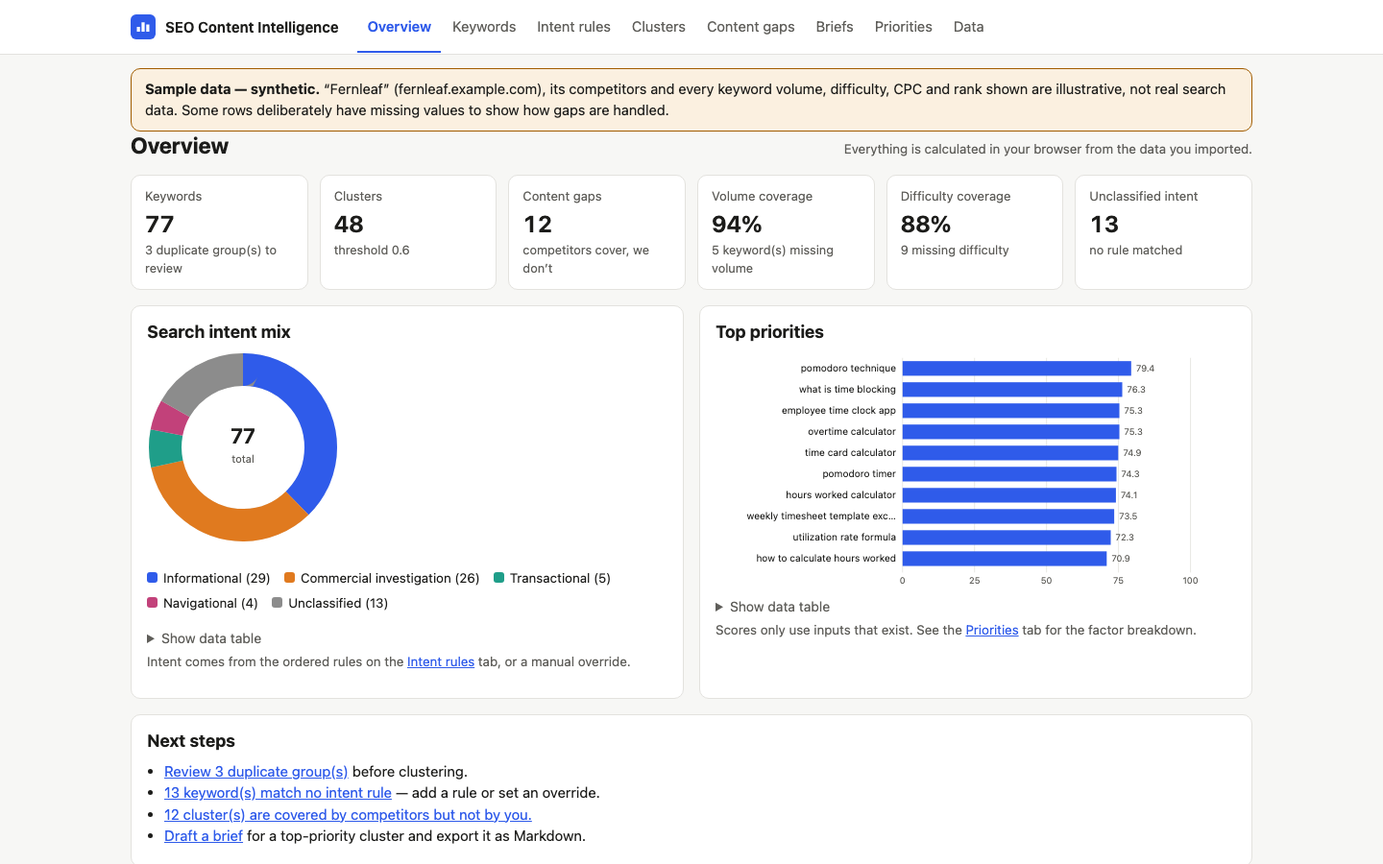
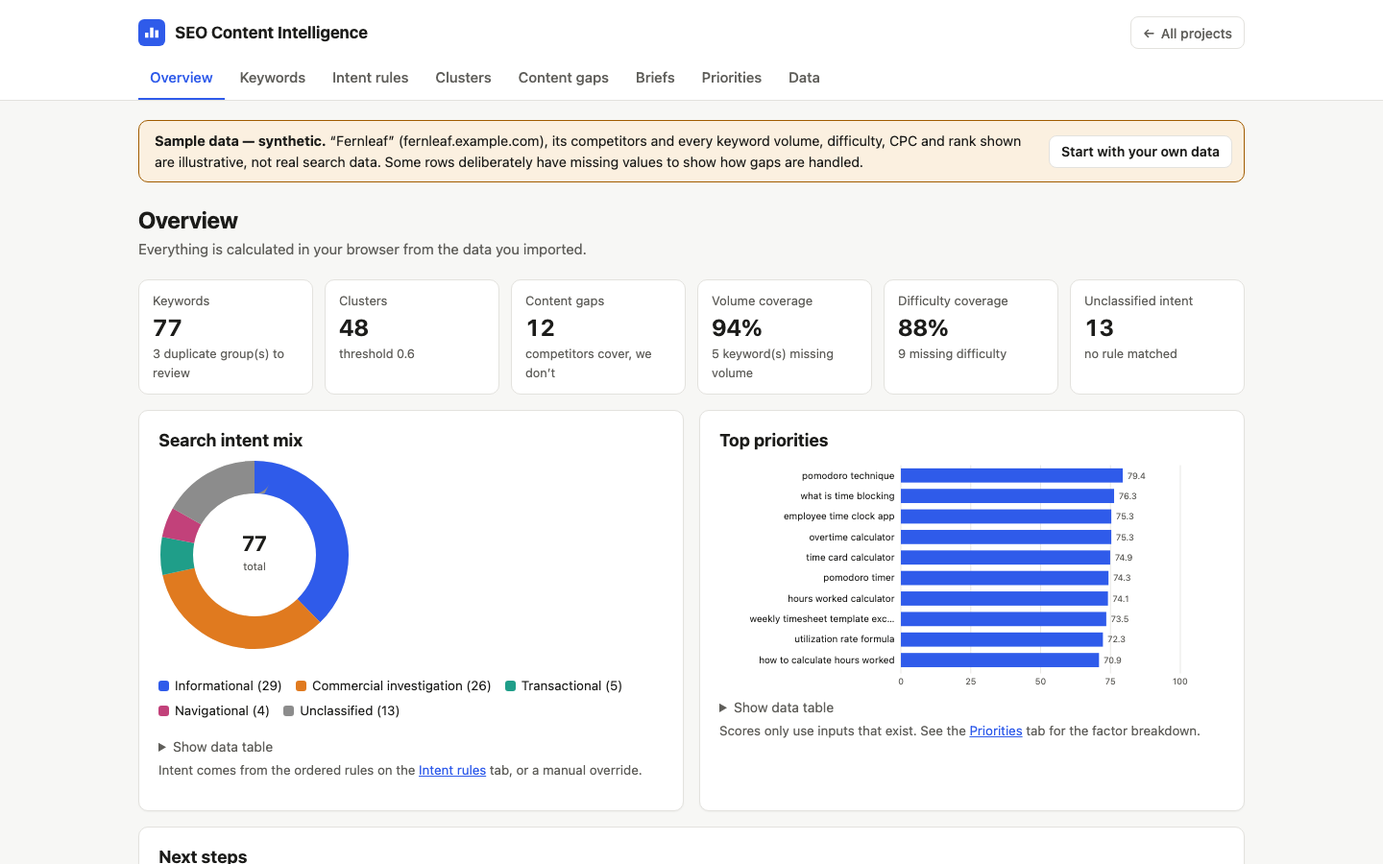
Consistent header and footer, sticky footer, sample loaded on first visit

Changed region(s): [[0.0938, 0.0, 0.9062, 1.0], [0.5312, 0.8089, 0.875, 0.8711], [0.25, 0.3422, 0.2812, 0.4356]]

diff --git a/src/app.js b/src/app.js
@@ -16,6 +16,9 @@ const INTENT_COLORS = { informational: PALETTE[0], commercial: PALETTE[1], trans
 const FACTOR_COLORS = { volume: PALETTE[0], difficulty: PALETTE[2], intent: PALETTE[1], gap: PALETTE[3], rank: PALETTE[4] };
 
 let storageOk = true;
+let hadSavedState = false;
+/** Set when the visitor chose to start empty (or reset), so the sample is not auto-loaded again. */
+const START_EMPTY_KEY = STORAGE_KEY + '.startEmpty';
 let state = loadState();
 let cache = null;
 const ui = {
@@ -35,6 +38,7 @@ function loadState() {
   let raw = null;
   try { raw = localStorage.getItem(STORAGE_KEY); } catch { storageOk = false; return defaultState(); }
   if (!raw) return defaultState();
+  hadSavedState = true;
   try {
     const v = validateState(JSON.parse(raw));
     if (v.ok) return v.state;
@@ -43,6 +47,12 @@ function loadState() {
     queueMicrotask(() => setStatus('Saved data was corrupted and was ignored. Load sample data or import a CSV to continue.', 'bad'));
   }
   return defaultState();
+}
+function startEmptyChosen() {
+  try { return localStorage.getItem(START_EMPTY_KEY) === '1'; } catch { return false; }
+}
+function rememberStartEmpty() {
+  try { localStorage.setItem(START_EMPTY_KEY, '1'); } catch { /* storage unavailable */ }
 }
 function save() {
   try { localStorage.setItem(STORAGE_KEY, JSON.stringify(state)); }
@@ -94,7 +104,7 @@ function render() {
     if (a.dataset.tab === ui.tab) a.setAttribute('aria-current', 'page'); else a.removeAttribute('aria-current');
   });
   document.getElementById('banner').innerHTML = state.isSample
-    ? `<div class="banner"><strong>Sample data — synthetic.</strong> “Fernleaf” (fernleaf.example.com), its competitors and every keyword volume, difficulty, CPC and rank shown are illustrative, not real search data. Some rows deliberately have missing values to show how gaps are handled.</div>`
+    ? `<div class="sample-banner" role="note"><p class="sample-banner__text"><strong>Sample data — synthetic.</strong> “Fernleaf” (fernleaf.example.com), its competitors and every keyword volume, difficulty, CPC and rank shown are illustrative, not real search data. Some rows deliberately have missing values to show how gaps are handled.</p><button type="button" class="sample-banner__action" data-action="start-own">Start with your own data</button></div>`
     : '';
   const main = document.getElementById('main');
   let html;
@@ -121,7 +131,7 @@ function renderOverview() {
   const top = a.scores.filter(x => x.score !== null).slice(0, 10);
   const topRows = top.map(x => ({ label: a.summaries.get(x.id).seed, segments: [{ key: 'score', value: x.score }] }));
   return `
-  <div class="page-head"><h1>Overview</h1><span class="muted small">Everything is calculated in your browser from the data you imported.</span></div>
+  <div class="page-head"><div><h1>Overview</h1><p>Everything is calculated in your browser from the data you imported.</p></div></div>
   <div class="kpis">
     ${kpi('Keywords', n0(s.keywords), `${a.duplicates.length} duplicate group(s) to review`)}
     ${kpi('Clusters', n0(a.clusters.length), `threshold ${a.threshold}`)}
@@ -164,7 +174,7 @@ function fallbackTable(headers, rows) {
 // ---------- Keywords ----------
 function renderKeywords() {
   return `
-  <div class="page-head"><h1>Keywords</h1><span class="muted small">Import, normalise, de-duplicate and edit keyword research.</span></div>
+  <div class="page-head"><div><h1>Keywords</h1><p>Import, normalise, de-duplicate and edit keyword research.</p></div></div>
   ${renderImportCard()}
   ${state.keywords.length ? renderDuplicates() + renderKeywordTable() : emptyState('No keywords yet', 'Choose a CSV above, paste CSV text, or load the synthetic sample.', sampleBtn)}`;
 }
@@ -302,7 +312,7 @@ function keywordTableHtml() {
 function renderRules() {
   const a = state.keywords.length ? A() : null;
   return `
-  <div class="page-head"><h1>Intent rules</h1><span class="muted small">Transparent, ordered, editable.</span></div>
+  <div class="page-head"><div><h1>Intent rules</h1><p>Transparent, ordered, editable.</p></div></div>
   <p class="lead">Rules are checked from top to bottom against the <em>normalised</em> keyword. The first enabled rule that matches decides the intent; if none matches, the keyword is <strong>Unclassified</strong>. Terms are comma-separated and match whole words or phrases. A manual override on the Keywords tab always wins.</p>
   <section class="card">
     <h2>Test a keyword</h2>
@@ -347,7 +357,7 @@ function renderClusters() {
   if (!state.keywords.length) return `<div class="page-head"><h1>Clusters</h1></div>` + emptyState('Nothing to cluster yet', 'Import keywords or load the sample data first.', sampleBtn + toKeywordsBtn);
   const t = state.settings.clusterThreshold;
   return `
-  <div class="page-head"><h1>Clusters</h1><span class="muted small">${A().clusters.length} cluster(s) from ${state.keywords.length} keyword(s)</span></div>
+  <div class="page-head"><div><h1>Clusters</h1><p>${A().clusters.length} cluster(s) from ${state.keywords.length} keyword(s)</p></div></div>
   <section class="card">
     <h2>How keywords are grouped</h2>
     <p class="small">Each keyword is reduced to <strong>core terms</strong> (normalised words${state.settings.foldPlurals ? ', plurals folded' : ''}, minus stopwords and intent modifiers such as “best”, “how”, “free”). Keywords are processed by volume (highest first; missing volume last, then A→Z). Each joins the existing cluster whose <strong>seed</strong> has the highest Jaccard similarity (shared terms ÷ all distinct terms) if it reaches the threshold; otherwise it starts a new cluster. Same data + same settings = same clusters.</p>
@@ -403,7 +413,7 @@ function renderGaps() {
     ${simpleImportBlock('competitors', 'Competitor coverage CSV', COMPETITOR_FIELDS, state.competitors.length, 'sample-data/competitors-template.csv', 'sample-data/competitors-sample.csv')}
     ${simpleImportBlock('ourPages', 'Our pages CSV', OUR_PAGE_FIELDS, state.ourPages.length, 'sample-data/our-pages-template.csv', 'sample-data/our-pages-sample.csv')}
   </div>`;
-  const head = `<div class="page-head"><h1>Content gaps</h1><span class="muted small">Topics competitors cover that you don’t.</span></div>`;
+  const head = `<div class="page-head"><div><h1>Content gaps</h1><p>Topics competitors cover that you don’t.</p></div></div>`;
   if (!state.keywords.length) return head + imports + emptyState('Import keywords first', 'Gaps are measured against your keyword clusters, so import keyword research (or the sample) first.', sampleBtn + toKeywordsBtn);
   const a = A();
   if (!a.gaps.hasCompetitorData) return head + imports + emptyState('No competitor data yet', 'Import a CSV listing competitor domains, URLs and the topic or keyword each page covers. Gap status is shown as “missing input” until then — nothing is guessed.', '<a class="btn" href="sample-data/competitors-template.csv" download>Download competitor template</a>');
@@ -448,7 +458,7 @@ function renderGaps() {
 
 // ---------- Briefs ----------
 function renderBriefs() {
-  const head = `<div class="page-head"><h1>Content briefs</h1><span class="muted small">Generated from a cluster, then fully editable. Saved in this browser.</span></div>`;
+  const head = `<div class="page-head"><div><h1>Content briefs</h1><p>Generated from a cluster, then fully editable. Saved in this browser.</p></div></div>`;
   if (!state.keywords.length && !Object.keys(state.briefs).length) return head + emptyState('No clusters yet', 'Import keywords or load the sample data, then generate a brief from any cluster.', sampleBtn + toKeywordsBtn);
   const a = state.keywords.length ? A() : null;
   const options = a ? a.scores.map((s, i) => `<option value="${esc(s.id)}" ${ui.briefCluster === s.id ? 'selected' : ''}>#${i + 1} · ${esc(a.summaries.get(s.id).seed)} (score ${s.score ?? 'n/a'})${state.briefs[s.id] ? ' ✓ saved' : ''}</option>`).join('') : '';
@@ -494,7 +504,7 @@ function renderBriefs() {
 
 // ---------- Priorities ----------
 function renderPriorities() {
-  const head = `<div class="page-head"><h1>Priorities</h1><span class="muted small">Explainable weighted score per cluster, from available inputs only.</span></div>`;
+  const head = `<div class="page-head"><div><h1>Priorities</h1><p>Explainable weighted score per cluster, from available inputs only.</p></div></div>`;
   if (!state.keywords.length) return head + emptyState('Nothing to prioritise yet', 'Import keywords or load the sample data first.', sampleBtn + toKeywordsBtn);
   const a = A();
   const w = state.settings.weights;
@@ -553,7 +563,7 @@ function renderPriorities() {
 
 // ---------- Data ----------
 function renderData() {
-  return `<div class="page-head"><h1>Data</h1><span class="muted small">Everything is stored only in this browser (localStorage).</span></div>
+  return `<div class="page-head"><div><h1>Data</h1><p>Everything is stored only in this browser (localStorage).</p></div></div>
   ${storageOk ? '' : '<div class="banner" style="margin-bottom:16px">Browser storage is unavailable (private mode or blocked). Your work will be lost on reload — use “Back up data”.</div>'}
   <div class="grid two">
     <section class="card"><h2>Backup and restore</h2>
@@ -598,7 +608,7 @@ function importSimple(kind, text, fileName) {
   } catch (e) { setStatus(`${fileName}: ${e.message}`, 'bad'); }
 }
 
-async function loadSample() {
+async function loadSample(_el, quiet = false) {
   if ((state.keywords.length || state.competitors.length) && !confirm('Replace current data with the synthetic sample? Back up first if you want to keep it.')) return;
   try {
     const [kw, comp, pages] = await Promise.all(['keywords-sample.csv', 'competitors-sample.csv', 'our-pages-sample.csv']
@@ -612,9 +622,11 @@ async function loadSample() {
     s.ourPages = importSimpleRows(p.headers, p.rows, OUR_PAGE_FIELDS).items;
     state = s;
     ui.pendingImport = null; ui.importReport = null; ui.briefCluster = ''; ui.simpleReport = null;
-    commit(`Loaded synthetic sample: ${s.keywords.length} keywords, ${s.competitors.length} competitor topics, ${s.ourPages.length} pages.`);
+    commit(quiet ? '' : `Loaded synthetic sample: ${s.keywords.length} keywords, ${s.competitors.length} competitor topics, ${s.ourPages.length} pages.`);
+    return true;
   } catch (e) {
     setStatus(`Could not load sample data (${e.message}). Open the app through a local web server (see README), not as a file:// page.`, 'bad');
+    return false;
   }
 }
 
@@ -697,8 +709,15 @@ const actions = {
   'export-recs-md': () => { download('prioritised-recommendations.md', recommendationsMarkdown(state, A(), { limit: 1000 }), 'text/markdown'); setStatus('Exported recommendations Markdown.'); },
   'weights-reset': () => { state.settings.weights = { ...DEFAULT_WEIGHTS }; state.settings.intentValues = { ...DEFAULT_INTENT_VALUES }; commit('Weights and intent values reset to defaults.'); },
   backup: () => { download(`seo-content-intelligence-backup-${new Date().toISOString().slice(0, 10)}.json`, JSON.stringify(makeBackup(state), null, 2), 'application/json'); setStatus('Backup downloaded.'); },
+  'start-own': () => {
+    rememberStartEmpty();
+    state = defaultState(); ui.pendingImport = null; ui.importReport = null; ui.briefCluster = ''; ui.simpleReport = null;
+    if (ui.tab !== 'overview' && ui.tab !== 'keywords') history.replaceState(null, '', '#overview');
+    commit('Sample cleared. Import your own keyword CSV, or load the sample again.');
+  },
   reset: () => {
     if (!confirm('Delete all keywords, rules, settings, competitor data, pages and briefs from this browser? This cannot be undone.')) return;
+    rememberStartEmpty();
     state = defaultState(); ui.pendingImport = null; ui.importReport = null; ui.briefCluster = ''; ui.simpleReport = null;
     commit('All data reset.');
   }
@@ -790,4 +809,10 @@ document.addEventListener('input', e => {
 });
 window.addEventListener('hashchange', () => { setStatus(''); render(); document.getElementById('main').focus({ preventScroll: true }); window.scrollTo(0, 0); });
 
-render();
+// First visit (nothing saved, sample not declined): open the synthetic sample so the overview is populated.
+if (!hadSavedState && !startEmptyChosen()) {
+  document.getElementById('main').innerHTML = '<p class="muted">Loading the synthetic sample…</p>';
+  loadSample(null, true).then(ok => { if (!ok) render(); });
+} else {
+  render();
+}

diff --git a/src/styles.css b/src/styles.css
@@ -21,26 +21,14 @@ a { color: var(--accent); }
 h1, h2, h3 { line-height: 1.25; margin: 0 0 .5rem; }
 h1 { font-size: 1.45rem; } h2 { font-size: 1.12rem; } h3 { font-size: 1rem; }
 p { margin: .25rem 0 .75rem; }
-.wrap { max-width: 1200px; margin: 0 auto; padding: 0 16px; }
+.wrap { max-width: 1200px; margin: 0 auto; padding: 0 var(--chrome-gutter, 16px); }
 .num, td.num, .kpi .value { font-variant-numeric: tabular-nums; }
 :focus-visible { outline: 3px solid var(--accent); outline-offset: 2px; border-radius: 4px; }
 .skip-link { position: absolute; left: -999px; top: 0; background: var(--surface); padding: 8px 12px; z-index: 10; }
 .skip-link:focus { left: 8px; }
 
-/* Top bar */
-.topbar { background: var(--surface); border-bottom: 1px solid var(--border); position: sticky; top: 0; z-index: 5; }
-.topbar-inner { max-width: 1200px; margin: 0 auto; padding: 0 16px; display: flex; align-items: center; gap: 20px; min-height: 56px; }
-.brand { display: flex; align-items: center; gap: 10px; font-weight: 650; white-space: nowrap; }
-.tabs { display: flex; gap: 2px; overflow-x: auto; scrollbar-width: thin; min-width: 0; }
-.tabs a { padding: 16px 10px 14px; color: var(--muted); text-decoration: none; border-bottom: 2px solid transparent; white-space: nowrap; font-size: .93rem; }
-.tabs a:hover { color: var(--text); }
-.tabs a[aria-current="page"] { color: var(--accent); border-bottom-color: var(--accent); font-weight: 600; }
-@media (max-width: 760px) {
-  .topbar-inner { flex-direction: column; align-items: stretch; gap: 0; padding-top: 10px; }
-  .tabs a { padding: 10px 9px; }
-}
 
-/* Banner + status */
+/* In-page notes + status */
 .banner { margin-top: 14px; padding: 10px 14px; border: 1px solid var(--warn); background: var(--warn-weak); border-radius: var(--radius); font-size: .92rem; }
 .status:empty { display: none; }
 .status { margin-top: 12px; }
@@ -49,7 +37,6 @@ p { margin: .25rem 0 .75rem; }
 .status .msg.bad { border-color: var(--bad); background: var(--bad-weak); }
 .status .msg.warn { border-color: var(--warn); background: var(--warn-weak); }
 
-main { padding-top: 18px; padding-bottom: 40px; outline: none; }
 .page-head { display: flex; flex-wrap: wrap; align-items: baseline; justify-content: space-between; gap: 8px; margin-bottom: 8px; }
 .lead { color: var(--muted); max-width: 70ch; }
 
@@ -157,7 +144,119 @@ details.fallback summary { cursor: pointer; color: var(--muted); }
 .factor-cell { white-space: nowrap; }
 .factor-cell .raw { color: var(--muted); font-size: .78rem; display: block; }
 .score { font-weight: 650; }
-.footer { border-top: 1px solid var(--border); padding: 18px 0 26px; color: var(--muted); font-size: .88rem; background: var(--surface); }
 ul.plain { padding-left: 18px; margin: 4px 0; }
 .mapping-grid { display: grid; grid-template-columns: repeat(auto-fit, minmax(190px, 1fr)); gap: 10px; margin: 10px 0; }
 .mapping-grid select { width: 100%; }
+
+/* ===== Shared portfolio chrome v1 — identical in all five Dash-boop0 apps (keep in sync) ===== */
+:root { --chrome-ink: #FFFFFF; --chrome-shadow: 0 1px 2px rgba(0, 0, 0, 0.04); --chrome-gutter: 24px; }
+@media (prefers-color-scheme: dark) { :root { --chrome-ink: #141413; --chrome-shadow: none; } }
+@media (max-width: 600px) { :root { --chrome-gutter: 16px; } }
+
+/* Sticky-footer layout: footer sits at the viewport bottom or after the content, never mid-screen. */
+html { background: var(--bg); }
+body { margin: 0; min-height: 100vh; min-height: 100dvh; display: flex; flex-direction: column; background: var(--bg); }
+main.site-main {
+  flex: 1 0 auto; width: 100%; max-width: 1200px; min-width: 0; margin: 0 auto;
+  padding: 32px var(--chrome-gutter) 48px; outline: none;
+}
+body:has(.site-banner:not(:empty):not([hidden])) main.site-main { padding-top: 24px; }
+
+/* Header */
+.site-header { position: sticky; top: 0; z-index: 30; background: var(--surface); border-bottom: 1px solid var(--border); flex: none; }
+.site-header__inner { max-width: 1200px; margin: 0 auto; padding: 0 var(--chrome-gutter); }
+.site-header__top { display: flex; align-items: center; flex-wrap: wrap; gap: 8px 16px; min-height: 56px; padding-top: 12px; }
+.site-brand {
+  display: inline-flex; align-items: center; gap: 10px; min-width: 0; margin-right: auto; height: 36px;
+  color: var(--text); text-decoration: none; font-size: 1.0625rem; font-weight: 700; letter-spacing: -0.005em; line-height: 1.2;
+}
+.site-brand__icon { width: 28px; height: 28px; flex: none; display: block; }
+.site-brand__icon rect { fill: var(--accent); }
+.site-brand__icon .glyph-s { fill: none; stroke: var(--chrome-ink); stroke-linecap: round; stroke-linejoin: round; }
+.site-brand__icon .glyph-f { fill: var(--chrome-ink); }
+.site-brand__name { min-width: 0; overflow: hidden; text-overflow: ellipsis; white-space: nowrap; }
+.site-header__extra { display: flex; align-items: center; gap: 8px 12px; min-width: 0; font-size: 0.875rem; color: var(--muted); }
+.site-header__extra:empty { display: none; }
+.site-header__extra select { min-height: 36px; max-width: min(360px, 40vw); }
+.site-home {
+  display: inline-flex; align-items: center; gap: 6px; flex: none; height: 34px; padding: 0 12px;
+  border: 1px solid var(--border); border-radius: 8px; background: var(--surface);
+  color: var(--muted); font-size: 0.875rem; font-weight: 500; text-decoration: none; white-space: nowrap;
+}
+.site-home:hover { color: var(--text); border-color: var(--accent); }
+.site-tabs {
+  display: flex; gap: 4px; margin: 4px calc(-1 * var(--chrome-gutter)) 0; padding: 0 var(--chrome-gutter);
+  overflow-x: auto; overscroll-behavior-x: contain; scrollbar-width: none; -webkit-overflow-scrolling: touch;
+}
+.site-tabs::-webkit-scrollbar { display: none; }
+.site-tabs a {
+  flex: none; display: block; padding: 10px 12px 11px; border-bottom: 2px solid transparent;
+  color: var(--muted); font-size: 0.9375rem; font-weight: 500; line-height: 1.4; text-decoration: none; white-space: nowrap;
+}
+.site-tabs a:hover { color: var(--text); }
+.site-tabs a[aria-current="page"] { color: var(--accent); border-bottom-color: var(--accent); }
+.site-tabs a:focus-visible { outline: 3px solid var(--accent); outline-offset: -3px; border-radius: 6px; }
+
+/* Synthetic-data banner (with "Start with your own data") */
+.site-banner { width: 100%; max-width: 1200px; margin: 0 auto; padding: 20px var(--chrome-gutter) 0; flex: none; }
+.site-banner:empty, .site-banner[hidden] { display: none; }
+.sample-banner {
+  display: flex; align-items: center; justify-content: space-between; flex-wrap: wrap; gap: 10px 16px;
+  margin: 0; padding: 10px 12px 10px 16px; border: 1px solid var(--warn); border-radius: 10px;
+  background: var(--warn-weak); color: var(--text); font-size: 0.9rem; line-height: 1.5;
+}
+.sample-banner + .sample-banner { margin-top: 8px; }
+.sample-banner.is-error { border-color: var(--bad); background: var(--bad-weak); }
+.sample-banner.is-info { border-color: var(--border); background: var(--surface); }
+.sample-banner__text { flex: 1 1 420px; min-width: 0; margin: 0; }
+.sample-banner__text strong { color: var(--text); }
+.sample-banner__action {
+  flex: none; display: inline-flex; align-items: center; justify-content: center; min-height: 34px; padding: 0 12px;
+  border: 1px solid var(--border); border-radius: 8px; background: var(--surface); color: var(--text);
+  font: inherit; font-size: 0.875rem; font-weight: 600; white-space: nowrap; cursor: pointer;
+}
+.sample-banner__action:hover { border-color: var(--accent); color: var(--accent); }
+
+/* Page titles and cards */
+:where(.site-main) h2 { font-size: 1.125rem; }
+:where(.site-main) h3 { font-size: 1rem; }
+.site-main h1 { font-size: 1.5rem; font-weight: 700; line-height: 1.25; letter-spacing: -0.01em; margin: 0 0 20px; }
+.site-main .page-head:has(h1) { display: flex; flex-wrap: wrap; align-items: flex-end; justify-content: space-between; gap: 8px 16px; margin: 0 0 20px; }
+.site-main .page-head h1 { margin: 0; }
+.site-main .page-head:has(h1) p, .site-main .page-head:has(h1) > .muted, .site-main .page-lead { margin: 4px 0 0; color: var(--muted); max-width: 75ch; }
+:where(.site-main) .card { border: 1px solid var(--border); border-radius: 10px; background: var(--surface); padding: 20px; box-shadow: var(--chrome-shadow); }
+:where(.site-main) .card.empty, :where(.site-main) .empty-state { padding: 48px 24px; text-align: center; }
+:where(.site-main) .card.empty > *, :where(.site-main) .empty-state > * { margin-left: auto; margin-right: auto; max-width: 560px; }
+:where(.site-main) .card.empty h2, :where(.site-main) .empty-state h2, :where(.site-main) .empty-state h3 { font-size: 1.15rem; margin-bottom: 8px; }
+
+/* Footer */
+.site-footer { flex: none; margin-top: auto; border-top: 1px solid var(--border); background: var(--bg); color: var(--muted); font-size: 0.875rem; line-height: 1.5; }
+.site-footer__inner {
+  max-width: 1200px; margin: 0 auto; padding: 24px var(--chrome-gutter);
+  display: flex; flex-wrap: wrap; align-items: center; justify-content: space-between; gap: 8px 24px;
+}
+.site-footer__links { display: flex; flex-wrap: wrap; gap: 6px 20px; }
+.site-footer a { color: var(--muted); text-decoration: underline; text-underline-offset: 3px; }
+.site-footer a:hover { color: var(--text); }
+.site-footer__note { margin: 0; }
+
+@media (max-width: 600px) {
+  main.site-main { padding-top: 20px; padding-bottom: 32px; }
+  body:has(.site-banner:not(:empty):not([hidden])) main.site-main { padding-top: 20px; }
+  .site-header__top { padding-top: 10px; gap: 8px 12px; }
+  .site-brand { font-size: 1rem; height: auto; min-height: 36px; max-width: calc(100% - 144px); }
+  .site-brand__name { white-space: normal; overflow: visible; }
+  .site-header__extra { order: 3; flex: 1 1 100%; }
+  .site-header__extra select { max-width: 100%; width: 100%; }
+  .site-tabs { margin-top: 2px; }
+  .site-tabs a { padding: 10px 10px 11px; }
+  .site-banner { padding-top: 16px; }
+  .sample-banner__action { width: 100%; }
+  .site-main h1 { font-size: 1.3rem; margin-bottom: 16px; }
+  .site-main .page-head:has(h1) { margin-bottom: 16px; }
+  :where(.site-main) .card { padding: 16px; }
+  :where(.site-main) .card.empty, :where(.site-main) .empty-state { padding: 32px 16px; }
+  .site-footer__inner { padding-top: 20px; padding-bottom: 20px; flex-direction: column; align-items: flex-start; }
+}
+@media print { .site-header, .site-footer, .site-banner .sample-banner__action { display: none; } }
+/* ===== end shared portfolio chrome ===== */

diff --git a/index.html b/index.html
@@ -10,13 +10,13 @@
 </head>
 <body>
   <a class="skip-link" href="#main">Skip to content</a>
-  <header class="topbar">
-    <div class="topbar-inner">
-      <div class="brand">
-        <svg aria-hidden="true" width="26" height="26" viewBox="0 0 32 32"><rect width="32" height="32" rx="7" fill="var(--accent)"/><path d="M8 22h4v-6H8zm6 0h4V10h-4zm6 0h4v-9h-4z" fill="#fff"/></svg>
-        <span>SEO Content Intelligence</span>
+  <header class="site-header">
+    <div class="site-header__inner">
+      <div class="site-header__top">
+        <a class="site-brand" href="#overview"><svg class="site-brand__icon" viewBox="0 0 32 32" aria-hidden="true" focusable="false"><rect width="32" height="32" rx="7"/><path class="glyph-f" d="M8 22h4v-6H8zm6 0h4V10h-4zm6 0h4v-9h-4z"/></svg><span class="site-brand__name">SEO Content Intelligence</span></a>
+        <a class="site-home" href="https://dash-boop0.github.io/"><span aria-hidden="true">←</span> All projects</a>
       </div>
-      <nav class="tabs" aria-label="Sections" id="tabs">
+      <nav class="site-tabs" aria-label="Sections" id="tabs">
         <a href="#overview" data-tab="overview">Overview</a>
         <a href="#keywords" data-tab="keywords">Keywords</a>
         <a href="#rules" data-tab="rules">Intent rules</a>
@@ -28,16 +28,19 @@
       </nav>
     </div>
   </header>
-  <div id="banner" class="wrap"></div>
+  <div id="banner" class="site-banner"></div>
   <div id="status" class="wrap status" role="status" aria-live="polite"></div>
-  <main id="main" class="wrap" tabindex="-1">
+  <main id="main" class="site-main" tabindex="-1">
     <noscript><p class="card">This tool needs JavaScript enabled. All processing happens in your browser.</p></noscript>
   </main>
-  <footer class="footer">
-    <div class="wrap">
-      Portfolio project by <a href="https://dash-boop0.github.io/">Dash-boop0</a> ·
-      <a href="https://github.com/Dash-boop0/seo-content-intelligence">Source on GitHub</a> ·
-      Sample data is synthetic
+  <footer class="site-footer">
+    <div class="site-footer__inner">
+      <nav class="site-footer__links" aria-label="Portfolio links">
+        <a href="https://dash-boop0.github.io/"><span aria-hidden="true">←</span> All projects</a>
+        <a href="https://github.com/Dash-boop0/seo-content-intelligence">Source on GitHub</a>
+        <a href="https://github.com/Dash-boop0/seo-content-intelligence/blob/main/LICENSE">MIT licence</a>
+      </nav>
+      <p class="site-footer__note">Sample data is synthetic · Your data stays in this browser</p>
     </div>
   </footer>
   <script type="module" src="src/app.js"></script>

diff --git a/docs/DEMO.md b/docs/DEMO.md
@@ -4,7 +4,7 @@ Setup: run `python3 -m http.server 8000` in the repo folder and open http://loca
 
 | Time | Do | Say |
 |---|---|---|
-| 0:00 | Click **Load sample data**. Point at the yellow banner. | "This is a synthetic dataset for a fictional time-tracking SaaS. Every volume and difficulty value is illustrative — and some are deliberately missing." |
+| 0:00 | Open the app; the sample loads automatically on first visit (otherwise click **Load sample data**). Point at the banner. | "This is a synthetic dataset for a fictional time-tracking SaaS. Every volume and difficulty value is illustrative — and some are deliberately missing." |
 | 0:15 | **Overview**: KPIs, intent donut, top priorities. | "77 keywords, 94% have volume, 13 match no intent rule. Nothing here is estimated." |
 | 0:30 | **Keywords**: show the 3 duplicate groups → click **Merge** on the exact group. Filter *Inputs → Missing volume*. | "Exact duplicates differ only by case or punctuation; near duplicates by word order or plurals. Merging keeps the highest-volume row and never sums volumes." |
 | 0:50 | **Intent rules**: type "pomodoro timer" in the tester (Unclassified). Add `timer` to rule 7 terms, tab out, retest. | "Rules are ordered and transparent — the first match wins and every keyword shows which rule decided it." |

diff --git a/README.md b/README.md
@@ -73,8 +73,9 @@ fetch from `file://`. Use a local server as shown above.
 
 ## How to use
 
-1. **Load sample data**, or go to **Keywords** and import your CSV (file or pasted text). Check the column
-   mapping and import.
+1. Your first visit opens the synthetic sample automatically. To use your own data, click **Start with your own data**
+   in the sample banner (the choice is remembered), then go to **Keywords** and import your CSV (file or pasted text).
+   Check the column mapping and import. **Load sample data** brings the sample back at any time.
 2. **Keywords**: review duplicate groups and merge them, filter rows with missing inputs, fill in or correct values
    inline, and override intent where the rules are wrong.
 3. **Intent rules**: test keywords, then edit, reorder, disable or add rules. Intents recalculate immediately.
